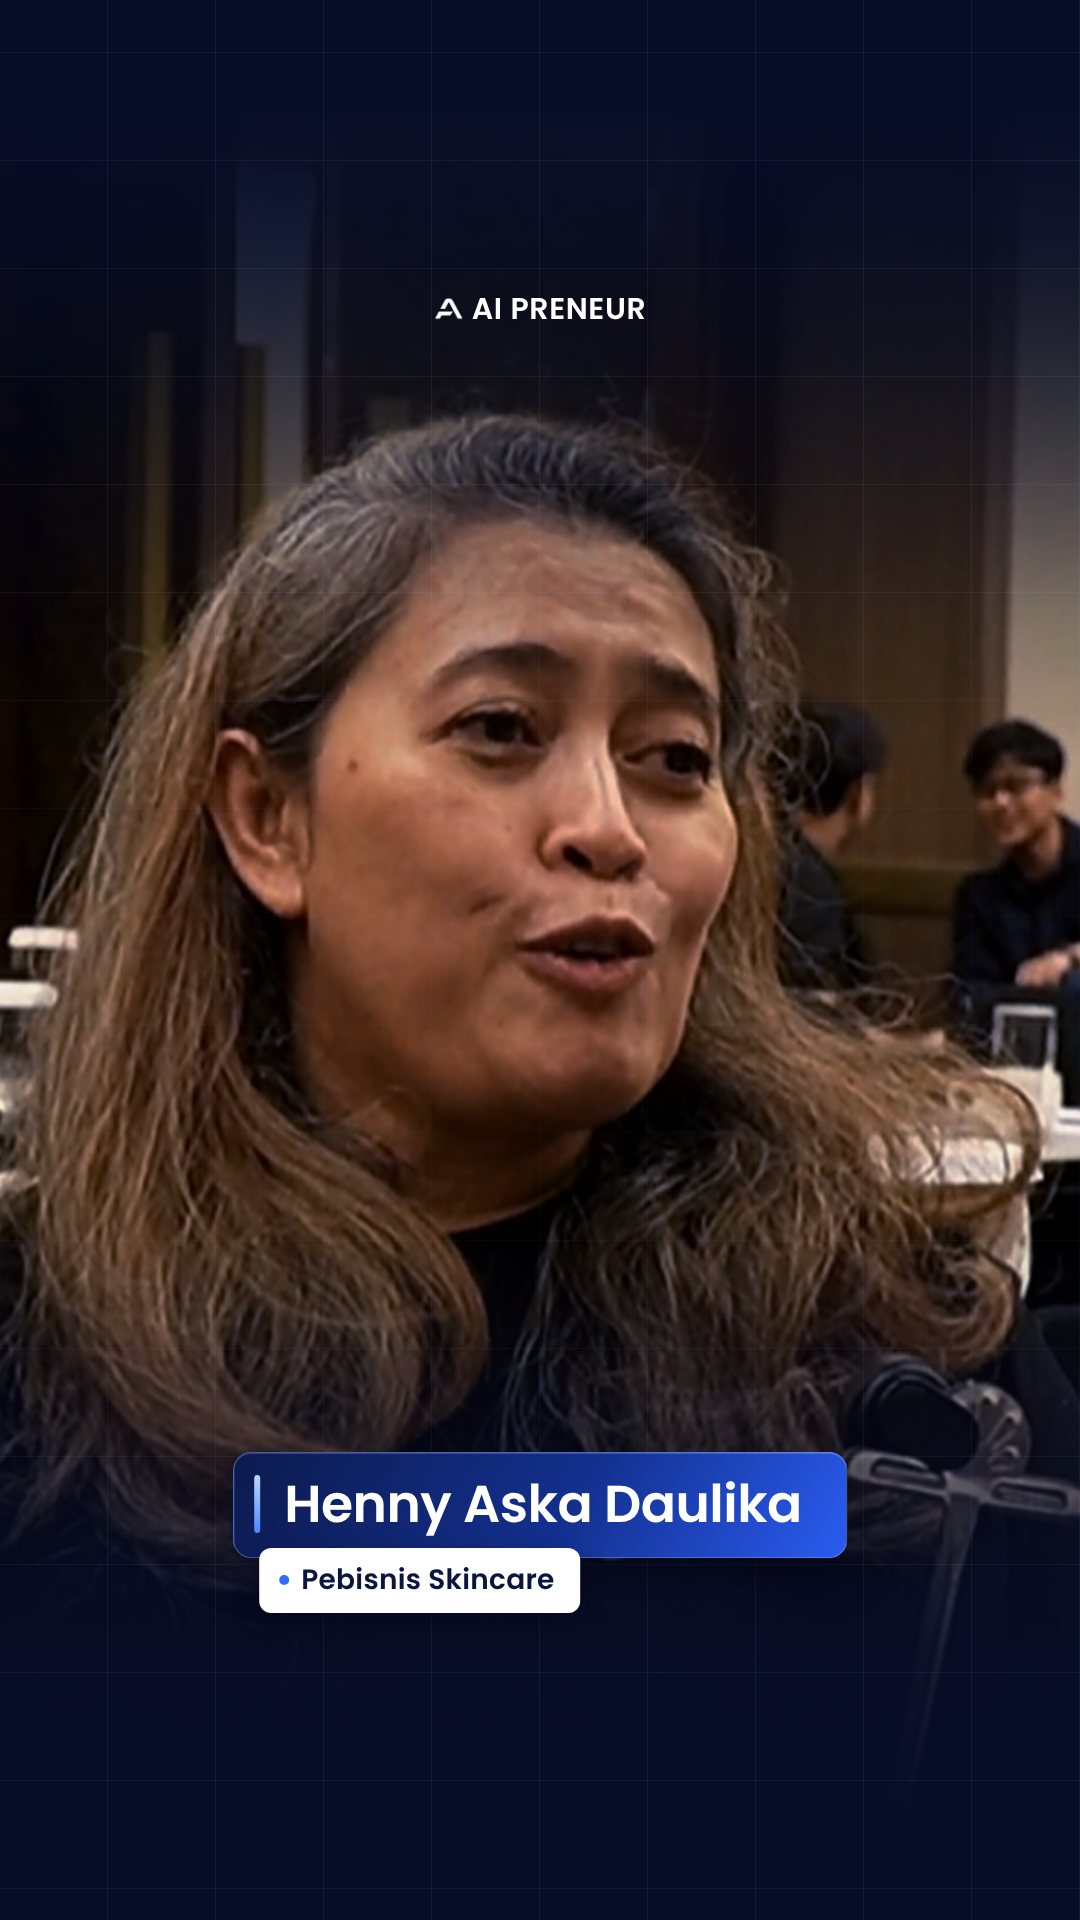
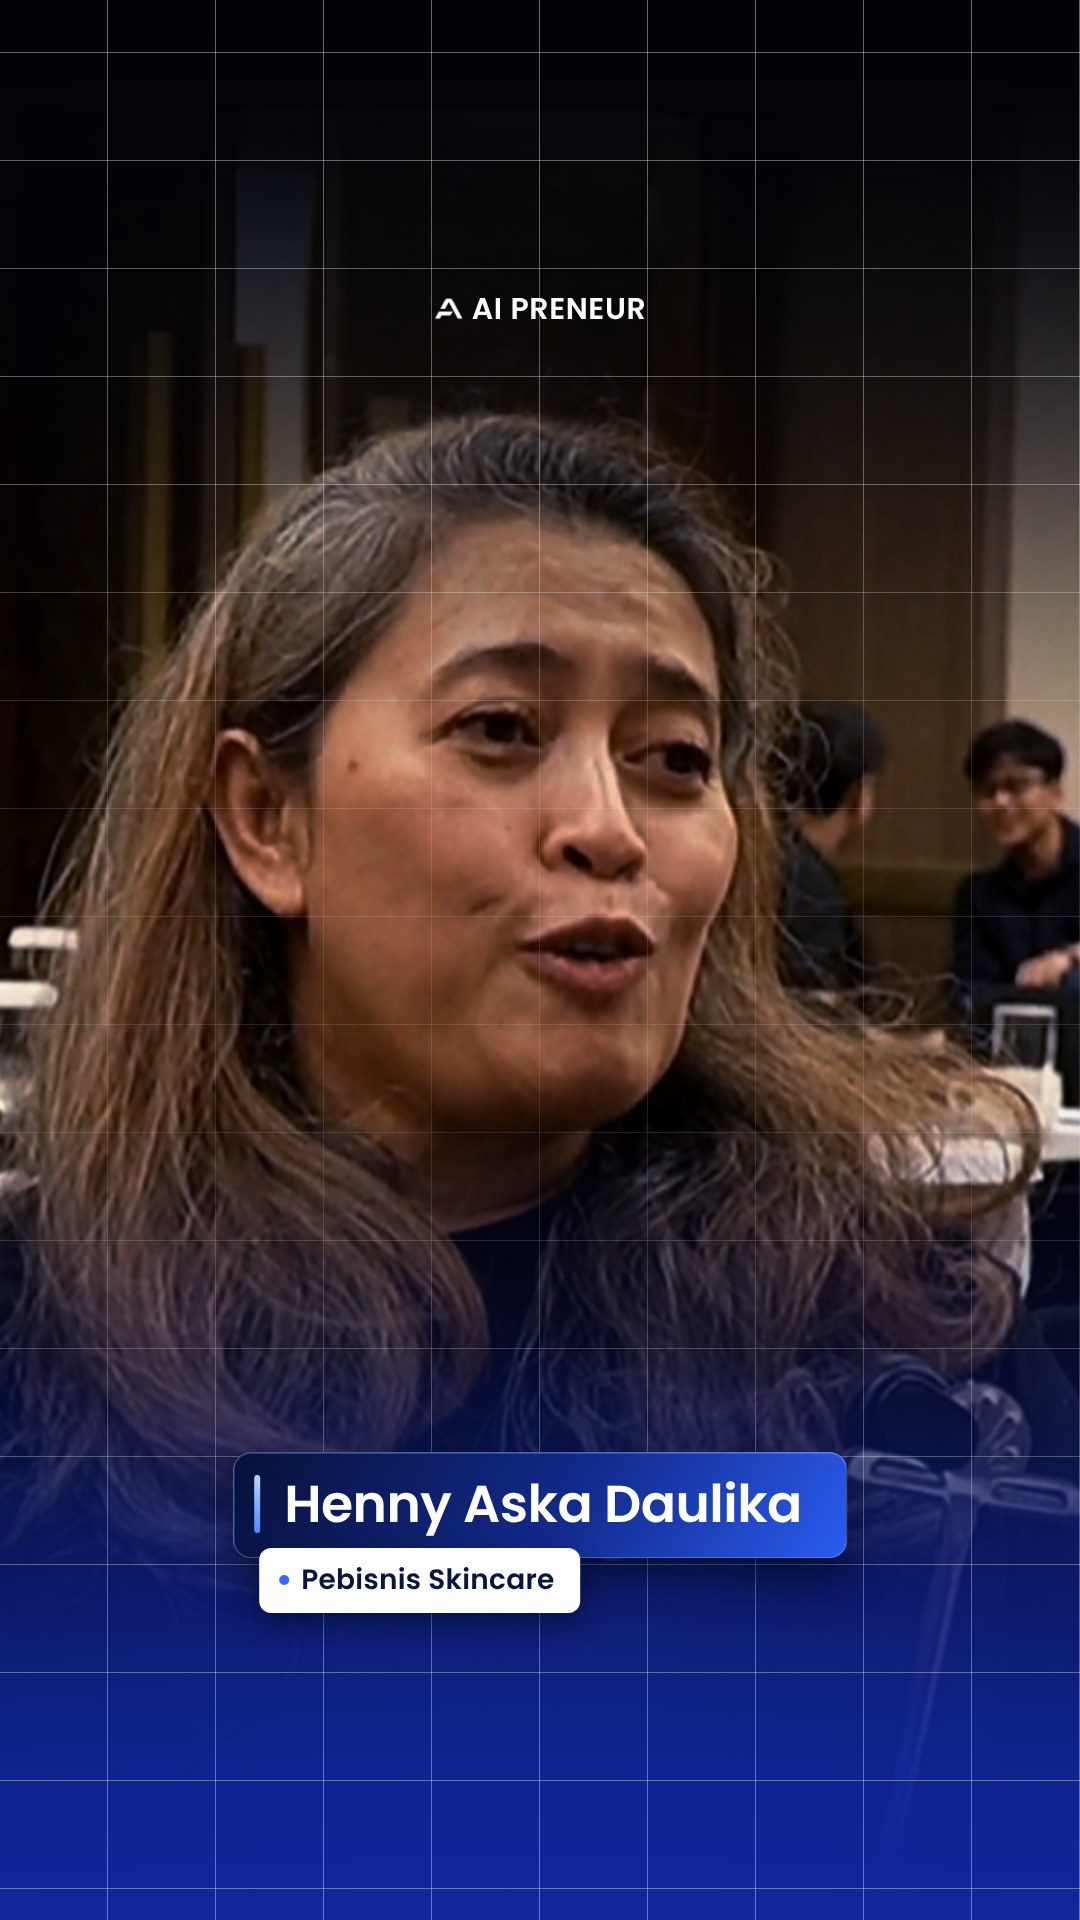
Thumbnail: visible white grid with black-to-royal-blue transparent gradient
Claude-Session: https://claude.ai/code/session_01FYKeHQysKjzco9uu7WCLcY

diff --git a/thumbnail-name-card/thumb.html b/thumbnail-name-card/thumb.html
@@ -12,19 +12,21 @@ body{width:1080px;height:1920px;overflow:hidden;background:var(--navy);font-fami
 /* cool navy grade over the warm room */
 .tint{position:absolute;inset:0;background:#1a2f6e;mix-blend-mode:soft-light;opacity:.55}
 .shade{position:absolute;inset:0;background:
-  linear-gradient(180deg,var(--navy) 0%,var(--navy) 5%,rgba(7,13,38,.78) 13%,rgba(7,13,38,.45) 22%,rgba(7,13,38,.12) 32%,rgba(7,13,38,0) 40%,
-                  rgba(7,13,38,0) 64%,rgba(7,13,38,.5) 75%,rgba(7,13,38,.9) 86%,var(--navy) 95%),
-  radial-gradient(120% 70% at 50% 45%,rgba(7,13,38,0) 55%,rgba(7,13,38,.55) 100%)}
-.grid{position:absolute;inset:0;opacity:.5;
-  background-image:linear-gradient(rgba(150,180,255,.16) 1.5px,transparent 1.5px),linear-gradient(90deg,rgba(150,180,255,.16) 1.5px,transparent 1.5px);
+  linear-gradient(180deg,#020308 0%,rgba(2,3,8,.92) 7%,rgba(2,3,10,.6) 16%,rgba(2,3,10,.22) 28%,rgba(2,3,10,0) 38%,
+                  rgba(6,12,50,0) 58%,rgba(8,18,80,.45) 70%,rgba(12,28,120,.8) 82%,rgba(16,36,150,.92) 92%,#14269a 100%),
+  radial-gradient(90% 30% at 50% 100%,rgba(40,70,220,.45) 0%,rgba(40,70,220,0) 100%),
+  radial-gradient(120% 70% at 50% 45%,rgba(2,4,14,0) 55%,rgba(2,4,14,.5) 100%)}
+/* grid: white hairlines like the reference, gradient-transparent over the photo */
+.grid{position:absolute;inset:0;
+  background-image:linear-gradient(rgba(255,255,255,.42) 1.5px,transparent 1.5px),linear-gradient(90deg,rgba(255,255,255,.42) 1.5px,transparent 1.5px);
   background-size:108px 108px;background-position:-1px 52px;
-  -webkit-mask-image:linear-gradient(180deg,#000 0%,#000 30%,rgba(0,0,0,.35) 45%,rgba(0,0,0,.35) 62%,#000 80%)}
+  -webkit-mask-image:linear-gradient(180deg,rgba(0,0,0,.95) 0%,rgba(0,0,0,.8) 25%,rgba(0,0,0,.32) 40%,rgba(0,0,0,.28) 62%,rgba(0,0,0,.75) 78%,rgba(0,0,0,.9) 100%)}
 .logo{position:absolute;top:286px;left:0;right:0;display:flex;justify-content:center;align-items:center;gap:2px;
   color:#fff;font-weight:600;font-size:30px;letter-spacing:.02em}
 .logo img{height:30px;margin-right:6px;filter:brightness(1.4)}
 .name{position:absolute;left:50%;top:1452px;transform:translateX(-50%);display:flex;flex-direction:column;align-items:flex-start}
 .card{position:relative;padding:22px 44px 24px 50px;border-radius:18px;
-  background:linear-gradient(120deg,#0c1a4d 0%,#13308f 55%,#2a5cf0 100%);
+  background:linear-gradient(120deg,#08113a 0%,#122a8c 55%,#2a5cf0 100%);
   border:1.5px solid rgba(156,192,255,.38);box-shadow:0 18px 40px rgba(2,6,22,.55),inset 0 1px 0 rgba(255,255,255,.18)}
 .card::before{content:"";position:absolute;left:20px;top:22px;bottom:24px;width:6px;border-radius:4px;background:linear-gradient(180deg,#bcd4ff,#4f86ff)}
 .card h1{font-weight:600;font-size:52px;line-height:1.12;color:#fff;letter-spacing:-.01em;white-space:nowrap}
